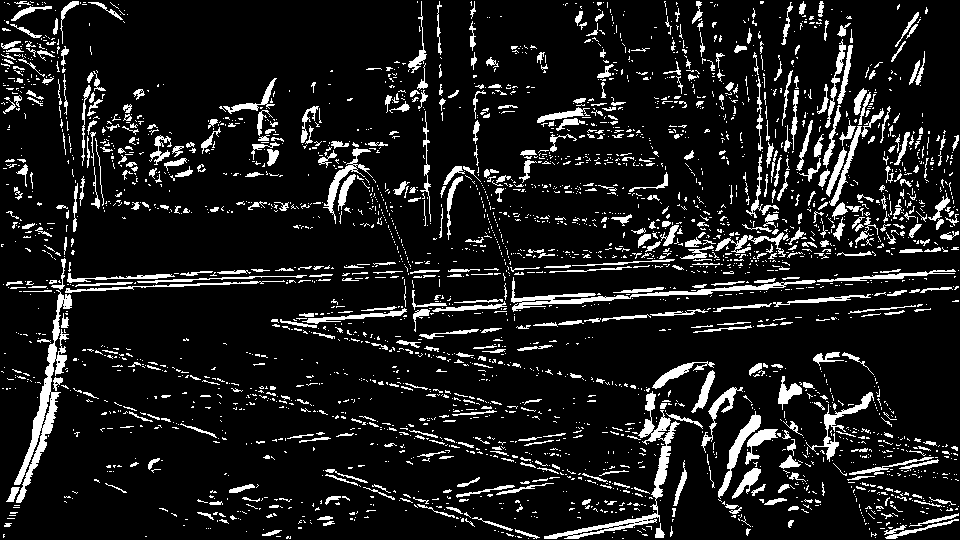
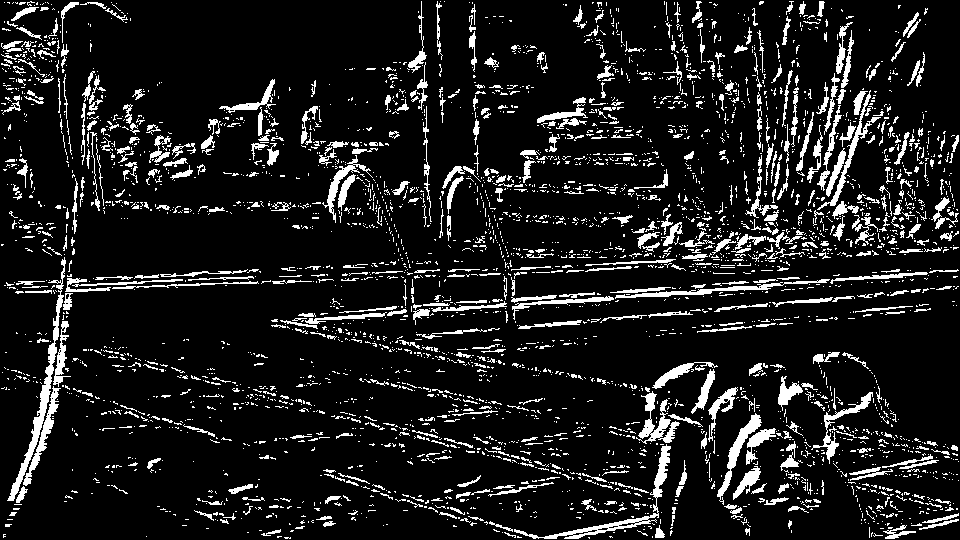
Gaussian filer correction

diff --git a/1-Activitie/A/src/A_5.py b/1-Activitie/A/src/A_5.py
@@ -19,7 +19,7 @@ def blurFilter(image_array):
     image_blurred = np.zeros([n_rows, n_collumns, 3], dtype=np.uint8)
 
     blur_matrix = np.array([[2, 4, 5, 4, 2],
-                            [4, 9, 2, 9, 4],
+                            [4, 9, 12, 9, 4],
                             [5, 12, 15, 12, 5],
                             [4, 9, 12, 9, 4],
                             [2, 4, 5, 4, 2]])/159
